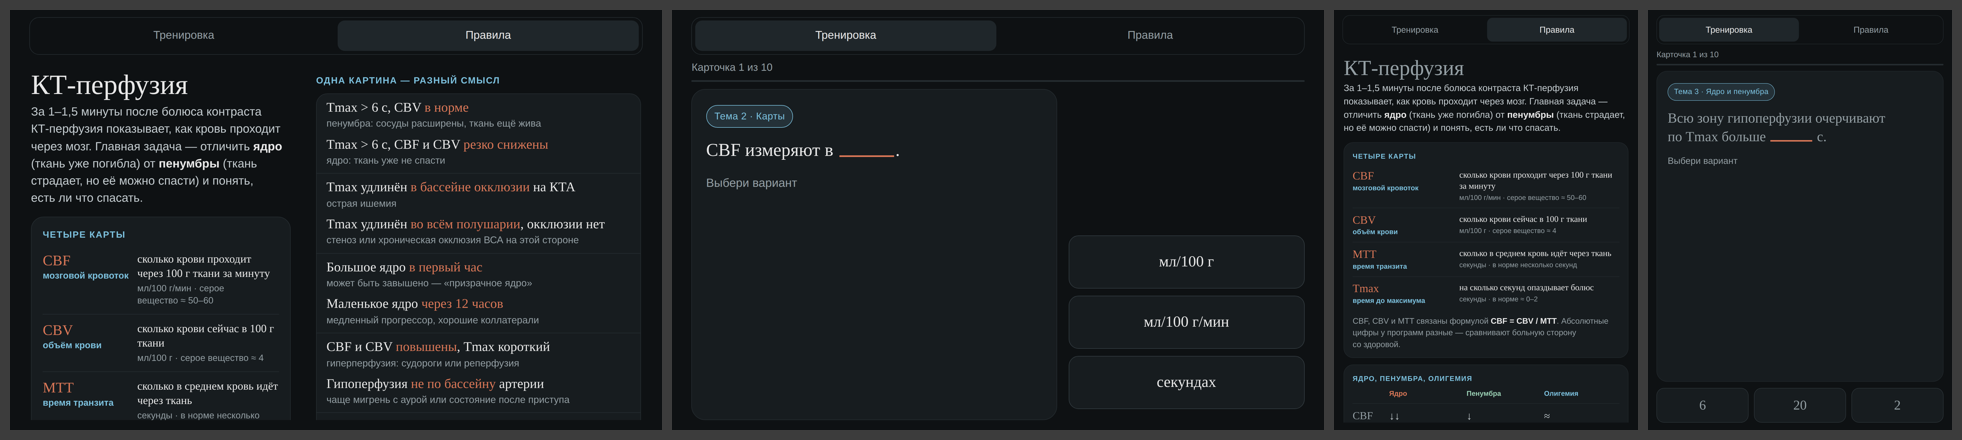
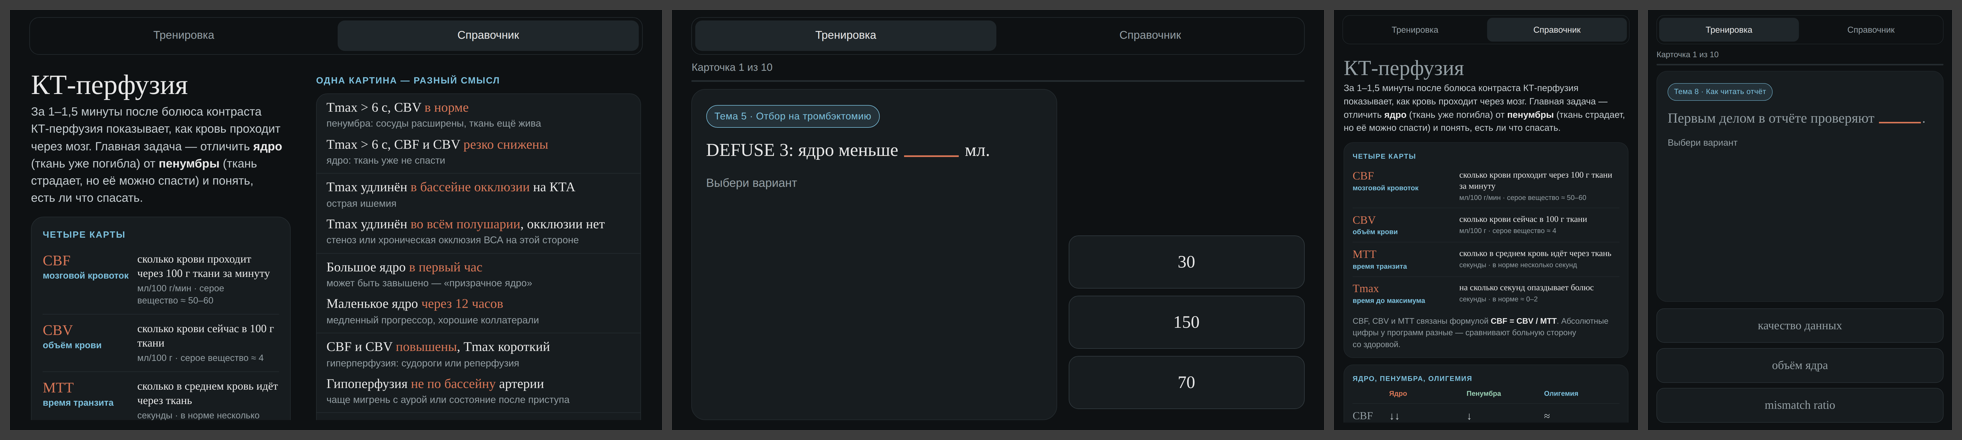
med-pso: CT perfusion second tab named «Справочник» like the others; Pages home-screen tags
The rename is done in ctp/build.py, the shared template ctp/template.html
stays as is. app/index.html (local and GitHub Pages copy) gets an
apple-touch-icon and the «ПСО» title for the home screen.

Claude-Session: https://claude.ai/code/session_01D6usDifFMPHewh45USjthA

diff --git a/med-pso/app/index.html b/med-pso/app/index.html
@@ -1,4 +1,4 @@
-<!doctype html><html><head><meta charset=utf8><meta name=viewport content="width=device-width,initial-scale=1,viewport-fit=cover"><style>:root{color-scheme:light;box-sizing:border-box;padding-top:env(safe-area-inset-top,0px);padding-bottom:env(safe-area-inset-bottom,0px)}html{scroll-padding-top:env(safe-area-inset-top,0px)}body{margin:0;padding:0;font:14px -apple-system,BlinkMacSystemFont,sans-serif;background:#faf9f5;color:#141413}img{max-width:100%}[hidden]:not([hidden=until-found i]){display:none!important}</style></head><body>
+<!doctype html><html><head><meta charset=utf8><meta name=viewport content="width=device-width,initial-scale=1,viewport-fit=cover"><style>:root{color-scheme:light;box-sizing:border-box;padding-top:env(safe-area-inset-top,0px);padding-bottom:env(safe-area-inset-bottom,0px)}html{scroll-padding-top:env(safe-area-inset-top,0px)}body{margin:0;padding:0;font:14px -apple-system,BlinkMacSystemFont,sans-serif;background:#faf9f5;color:#141413}img{max-width:100%}[hidden]:not([hidden=until-found i]){display:none!important}</style><link rel="apple-touch-icon" href="apps/icons/pso-180.png"><meta name="apple-mobile-web-app-capable" content="yes"><meta name="apple-mobile-web-app-status-bar-style" content="black"><meta name="apple-mobile-web-app-title" content="ПСО"><meta name="theme-color" content="#0e1113"></head><body>
 <title>Медицина ПСО</title>
 <style>
   /* Оболочка как у «Английского B2»: главная со сводкой и плитками модулей, модуль открывается поверх неё
@@ -184,7 +184,7 @@
 
 <script>
 // ——— Каталог: модули по группам. ids — карточки (для счётчиков), ls — ключ локального прогресса модуля
-const CAT = {"groups":[["reperf","Реперфузия и визуализация"],["prev","Ранняя вторичная профилактика"]],"apps":[{"key":"arterii","title":"Артерии мозга","label":"Артерии","desc":"сегменты, бассейны, синдромы, мишени для ВСТЭ; схемы сосудов","group":"reperf","kind":"gen","ls":"art:state","ids":["w-parts","w-acom","w-pcom","w-complete","w-fetal","w-fetal-occ","w-a1hypo","w-lepto","w-fig-acom","w-fig-pcom","w-tap-p1","i-c4","i-oph","i-c7","i-neck","i-T","i-tandem","i-pseudo","i-amaurosis","i-acha","i-eye-hemi","i-fig-c4","i-tap-c7","m-m1end","m-lsa","m-lsa-end","m-m2","m-dom","m-sup","m-inf","m-dot","m-fig-m2","m-fig-lsa","m-tap-m3","a-leg","a-heub","a-abulia","p-macula","p-alexia","p-p1","p-percheron","p-cortical","p-memory","a-fig-a2","p-fig-p2","a-tap-a1","v-c6","v-v3","v-junction","v-wall","v-aica","v-top","v-pinpoint","v-prodrome","v-III","v-hypo","v-fig-v4","v-fig-pica","v-tap-sca","s-gaze","s-aphasia","s-neglect","s-mca","s-lacune","s-hemianopia","s-lvo","s-neck","s-vertigo","s-fig-aca","s-fig-pca","s-tap-deep","k-arch","k-creat","k-40","k-hyper","k-aspects-ct","k-aspects-10","k-aspects-m1","k-aspects-vbb","k-pc","k-mip","k-collat","k-lams","k-fig-am2","k-fig-ai","k-tap-l","r-6h","r-mild","r-ivt","r-wait","r-defuse","r-ba","r-ba-aha","r-pca","r-m2","r-tandem","r-anticoag","r-fig-m1","r-fig-ba","r-fig-m4"],"topics":8,"extra":"","kw":"Виллизиев круг Внутренняя сонная артерия Средняя мозговая артерия ПМА и ЗМА Вертебробазилярная система Бассейны и синдромы КТА: где окклюзия Решение о ВСТЭ"},{"key":"perfuziya","title":"КТ-перфузия","label":"Перфузия","desc":"карты, ядро и пенумбра, коллатерали, отбор на ТЭ и ТЛТ","group":"reperf","kind":"gen","ls":"ctp:state","ids":["p1-bolus","p1-rate","p1-time","p1-aif","p1-vof","p1-formula","p1-trunc","p2-cbf-units","p2-cbv-units","p2-norm","p2-white","p2-tmax","p2-relative","p2-mtt","p3-core","p3-tmax","p3-cbv-pen","p3-cbv-core","p3-pen-vol","p3-ratio","p3-olig","p3-rescue","p4-hir","p4-high","p4-growth","p4-slow","p4-window","p4-tmax10","p5-core","p5-ratio","p5-pen","p5-window","p5-dawn","p5-dawn80","p5-large","p5-early","p6-window","p6-wake","p6-ratio","p6-core","p6-risk","p6-trace","p6-timeless","p6-guideline","p7-output","p7-ica","p7-seizure","p7-migraine","p7-lacune","p7-ghost","p7-late","p7-old","p7-motion","p8-first","p8-aif","p8-return","p8-cta","p8-mismatch","p8-aspects","p8-doctor"],"topics":8,"extra":"","kw":"Как это работает Карты Ядро и пенумбра Коллатерали Отбор на тромбэктомию Тромболизис в позднем окне Ловушки Как читать отчёт"},{"key":"poak","title":"Ранняя антикоагуляция","label":"ПОАК","desc":"ПОАК при ФП: сроки по ELAN и CATALYST, дозы, переходы, антидоты","group":"prev","kind":"gen","ls":"oac:state","ids":["e-elan-early","e-elan-major","e-elan-is","e-elan-sich","e-optimas","e-timing","e-catalyst","e-catalyst-sich","e-major","s-basis","s-minor","s-branch","s-deep","s-mca","s-two-cort","s-post","s-shower","s-two-small","s-after-evt","t-tia","t-minor","t-moderate","t-major","t-ivt","t-asa","t-asa-stop","t-heparin","t-proph","t-kr-minor","t-kr-severe","t-aha","t-kr25","x-hi","x-ph","x-ph-outcome","x-reperf","x-ckd","x-volume","x-break","x-combo","x-laao","d-full","d-api","d-api-crcl","d-riva","d-riva-food","d-dabi-80","d-dabi-30","d-edox","d-cg","d-dialysis","p-crush","p-dabi-caps","p-riva-tube","p-cbz","p-azole","p-verap","p-ppi","w-mech","w-ms","w-aps","w-lvt","w-start","w-inr","w-ttr","w-bridge","w-mitral","sw-asa","sw-lmwh","sw-ufh","sw-w-lt2","sw-w-2","sw-w-3","sw-to-w","sw-inr-time","sw-doac","a-ida","a-ida-dose","a-ida-restart","a-xa","a-vka","a-ufh","a-enox","a-charcoal","a-dialysis","l-warf","l-hep","l-48","l-dabi-12","l-dabi-tt","l-xa-12","l-xa-anti","l-evt"],"topics":10,"extra":"","kw":"Доказательства Размер инфаркта Сроки старта Особые ситуации Дозы ПОАК Зонд и взаимодействия Варфарин Переходы Антидоты Тромболизис на антикоагулянте"},{"key":"vits","title":"ВИТС после инсульта","label":"ВИТС","desc":"аторвастатин и розувастатин, цели ХС ЛНП, контроль, безопасность","group":"prev","kind":"gen","ls":"vits:state","ids":["w-most","w-target","w-50","w-extreme","w-tst","w-sparcl","w-ctt","w-icas","w-carotid","w-tg","d-atorva","d-rosu","d-mod-a","d-mod-r","d-effect","d-ezet","d-time","d-max","d-rosu-kk","d-atorva-kk","a-75new","a-75cont","a-75line","a-ctt","a-staree","a-staree-dfs","a-rosu70","a-ck70","s-kk30","s-asian","s-40list","s-cyclo","s-fusid","s-warf","s-preg","s-contra","s-amio","s-liver","t-48","t-lipids","t-nowait","t-inspires","t-inspires-fn","t-assort","t-ivt","t-inspires-reg","t-crush","n-blanco","n-end","n-lee","n-lee-red","n-life","n-disp","n-fail","m-kr","m-year","m-liver","m-168","m-ck","m-atorva-lft","m-early","m-visits","m-hba1c","e-ez","e-pcsk9","e-4","e-intol","e-tstez","e-racing","e-calc","e-calc2","e-calc3","r-plan","r-target","r-fourier","r-intol","r-alt3","r-alt2","r-restart","r-cyclo","r-inspires","h-ck4","h-ck10","h-ck-sym","h-ck-nosym","h-ctt","h-samson","h-ctt26","h-trans","h-intol","b-sparcl","b-tst-ich","b-bp","b-judge","b-hem","b-dm","b-lodestar","b-ht"],"topics":11,"extra":"","kw":"Кому ВИТС и цель Препараты и дозы Возраст Особые пациенты Когда начинать Не прерывать Сроки контроля Эскалация Снижение дозы Мышцы и печень Кровоизлияния и диабет"},{"key":"daat","title":"Антиагреганты при ИИ и ТИА","label":"ДААТ","desc":"ДААТ и монотерапия, нагрузка, сроки, перевод, с антикоагулянтами","group":"prev","kind":"gen","ls":"dapt:state","ids":["k-all","k-minor","k-abcd","k-algo","k-tia-af","k-lowtia","k-image","k-eso26","c-dur","c-start","c-label","c-chance","c-point","c-pool","c-insp","c-insp-bleed","c-insp-week","t-dur","t-who","t-sten","t-load","t-ich","t-thales","t-contra","t-label","t-asa","t-ch2","l-eso","l-already","l-75","l-600","l-rct","l-asa-thales","l-cyp","s-24","s-48","s-tic24","s-ivt","s-evt","s-ht","s-week","s-roth","d-22","d-31","d-which","d-90","d-point","d-sps3","d-taper","d-icas","d-ch2","i-prior","i-artis","i-kom","i-east","i-tapis","i-aramis","i-mrclean","i-tiro","v-sev","v-ist","v-atamis","v-dvt","v-cm","v-ac","v-ng","v-45","o-before","o-comb","o-atis","o-stent","o-lmwh","o-compass","o-compass-no","o-valve","x-icas","x-samm","x-diss","x-fail","x-triple","x-indo","x-moya","x-test","x-ppi","f-severe","f-end","f-noload","f-poac","f-ivt","f-tube","f-wait","f-forever"],"topics":11,"extra":"","kw":"Кому ДААТ, кому одна таблетка Клопидогрел + АСК Тикагрелор + АСК Нагрузочные дозы Сроки старта Длительность и перевод Тромболизис и тромбэктомия Лёгкие и тяжёлые С антикоагулянтами Особые случаи Частые ошибки"},{"key":"trombotsity","title":"Антитромботики при тромбоцитопении","label":"Тромбоциты","desc":"НМГ, ПОАК, АСК, клопидогрел при < 20, 20–50, > 50; ГИТ, ИТП","group":"prev","kind":"gen","ls":"thrombo:state","ids":["l-eha3","l-eha4","l-ehra","l-safe","l-rct","l-stable","l-recheck","l-who","k-thr","k-oak","k-tlt","k-04","k-50","k-improve","k-ipc","k-24","k-evt","f-pseudo","f-lmwh","f-hit","f-three","f-nsaid","f-ppi","f-panto","f-bleed","p-70","p-35","p-apix","p-20","p-ipc72","p-stock","p-cirr","p-ufh","t-60","t-35","t-35hr","t-14","t-20","t-resume","t-filter","t-trove","t-hr","d-60","d-ehra","d-eha","d-15","d-fall","d-vhr","d-iyen","d-droz","d-hit","a-60","a-35","a-20","a-resume","a-esc","a-acs","a-prim","a-dose","c-80","c-60b","c-40","c-icas40","c-icas60","c-esc","c-tic","c-iv","c-mcc","c-comb","c-coh","c-riva","r-100","r-wait","r-stop","r-cucc","r-trisp","r-xu","r-evt60","r-evt20","r-tor","h-what","h-4ts","h-low","h-int","h-time","h-fall","h-warf","h-trans","h-dur","h-apix","h-us","s-itp25","s-itp40","s-itpac","s-itpthr","s-cao","s-aabb","s-patch","s-ich","s-lp","s-valve","e-wait","e-70","e-poac","e-hit","e-dapt","e-tic","e-noprop","e-hittr","e-pseudo"],"topics":12,"extra":"","kw":"Три уровня тромбоцитов Что есть в КР по ИИ 2024 Сначала проверить НМГ: профилактика ТГВ НМГ: лечение ВТЭ ПОАК и ФП АСК Клопидогрел и ДААТ ТЛТ и тромбэктомия ГИТ ИТП, цирроз, трансфузии Частые ошибки"},{"key":"att","title":"АТТ после инсульта","label":"АТТ","desc":"ДАТТ, ФП, комбинации, тромб в ЛП, АФС, стенты, ООО, ТГВ; случаи и тест","group":"prev","kind":"att","ls":"stroke-att.progress.v1","ids":["d1","d2","d3","d4","d5","d6","d8","d7","f1","f2","f3","f10","f11","f4","f5","f6","f12","f7","f8","f9","c1","c2","c3","c4","c5","c6","l1","l2","l3","l4","l5","a1","a2","a3","a4","a5","s1","s2","s3","s4","s5","s6","s7","p1","p2","p3","p4","p5","p6","p7","v1","v2","v3","v4","v5","v6","v7"],"topics":8,"extra":"40 случаев · тест 26","kw":"ДААТ ФП: ОАК и сроки Комбинации Тромб в ЛП АФС Стентирование ООО ТГВ голени"}],"built":"2026-10-05"};
+const CAT = {"groups":[["reperf","Реперфузия и визуализация"],["prev","Ранняя вторичная профилактика"]],"apps":[{"key":"arterii","title":"Артерии мозга","label":"Артерии","desc":"сегменты, бассейны, синдромы, мишени для ВСТЭ; схемы сосудов","group":"reperf","kind":"gen","ls":"art:state","ids":["w-parts","w-acom","w-pcom","w-complete","w-fetal","w-fetal-occ","w-a1hypo","w-lepto","w-fig-acom","w-fig-pcom","w-tap-p1","i-c4","i-oph","i-c7","i-neck","i-T","i-tandem","i-pseudo","i-amaurosis","i-acha","i-eye-hemi","i-fig-c4","i-tap-c7","m-m1end","m-lsa","m-lsa-end","m-m2","m-dom","m-sup","m-inf","m-dot","m-fig-m2","m-fig-lsa","m-tap-m3","a-leg","a-heub","a-abulia","p-macula","p-alexia","p-p1","p-percheron","p-cortical","p-memory","a-fig-a2","p-fig-p2","a-tap-a1","v-c6","v-v3","v-junction","v-wall","v-aica","v-top","v-pinpoint","v-prodrome","v-III","v-hypo","v-fig-v4","v-fig-pica","v-tap-sca","s-gaze","s-aphasia","s-neglect","s-mca","s-lacune","s-hemianopia","s-lvo","s-neck","s-vertigo","s-fig-aca","s-fig-pca","s-tap-deep","k-arch","k-creat","k-40","k-hyper","k-aspects-ct","k-aspects-10","k-aspects-m1","k-aspects-vbb","k-pc","k-mip","k-collat","k-lams","k-fig-am2","k-fig-ai","k-tap-l","r-6h","r-mild","r-ivt","r-wait","r-defuse","r-ba","r-ba-aha","r-pca","r-m2","r-tandem","r-anticoag","r-fig-m1","r-fig-ba","r-fig-m4"],"topics":8,"extra":"","kw":"Виллизиев круг Внутренняя сонная артерия Средняя мозговая артерия ПМА и ЗМА Вертебробазилярная система Бассейны и синдромы КТА: где окклюзия Решение о ВСТЭ"},{"key":"perfuziya","title":"КТ-перфузия","label":"Перфузия","desc":"карты, ядро и пенумбра, коллатерали, отбор на ТЭ и ТЛТ","group":"reperf","kind":"gen","ls":"ctp:state","ids":["p1-bolus","p1-rate","p1-time","p1-aif","p1-vof","p1-formula","p1-trunc","p2-cbf-units","p2-cbv-units","p2-norm","p2-white","p2-tmax","p2-relative","p2-mtt","p3-core","p3-tmax","p3-cbv-pen","p3-cbv-core","p3-pen-vol","p3-ratio","p3-olig","p3-rescue","p4-hir","p4-high","p4-growth","p4-slow","p4-window","p4-tmax10","p5-core","p5-ratio","p5-pen","p5-window","p5-dawn","p5-dawn80","p5-large","p5-early","p6-window","p6-wake","p6-ratio","p6-core","p6-risk","p6-trace","p6-timeless","p6-guideline","p7-output","p7-ica","p7-seizure","p7-migraine","p7-lacune","p7-ghost","p7-late","p7-old","p7-motion","p8-first","p8-aif","p8-return","p8-cta","p8-mismatch","p8-aspects","p8-doctor"],"topics":8,"extra":"","kw":"Как это работает Карты Ядро и пенумбра Коллатерали Отбор на тромбэктомию Тромболизис в позднем окне Ловушки Как читать отчёт"},{"key":"poak","title":"Ранняя антикоагуляция","label":"ПОАК","desc":"ПОАК при ФП: сроки по ELAN и CATALYST, дозы, переходы, антидоты","group":"prev","kind":"gen","ls":"oac:state","ids":["e-elan-early","e-elan-major","e-elan-is","e-elan-sich","e-optimas","e-timing","e-catalyst","e-catalyst-sich","e-major","s-basis","s-minor","s-branch","s-deep","s-mca","s-two-cort","s-post","s-shower","s-two-small","s-after-evt","t-tia","t-minor","t-moderate","t-major","t-ivt","t-asa","t-asa-stop","t-heparin","t-proph","t-kr-minor","t-kr-severe","t-aha","t-kr25","x-hi","x-ph","x-ph-outcome","x-reperf","x-ckd","x-volume","x-break","x-combo","x-laao","d-full","d-api","d-api-crcl","d-riva","d-riva-food","d-dabi-80","d-dabi-30","d-edox","d-cg","d-dialysis","p-crush","p-dabi-caps","p-riva-tube","p-cbz","p-azole","p-verap","p-ppi","w-mech","w-ms","w-aps","w-lvt","w-start","w-inr","w-ttr","w-bridge","w-mitral","sw-asa","sw-lmwh","sw-ufh","sw-w-lt2","sw-w-2","sw-w-3","sw-to-w","sw-inr-time","sw-doac","a-ida","a-ida-dose","a-ida-restart","a-xa","a-vka","a-ufh","a-enox","a-charcoal","a-dialysis","l-warf","l-hep","l-48","l-dabi-12","l-dabi-tt","l-xa-12","l-xa-anti","l-evt"],"topics":10,"extra":"","kw":"Доказательства Размер инфаркта Сроки старта Особые ситуации Дозы ПОАК Зонд и взаимодействия Варфарин Переходы Антидоты Тромболизис на антикоагулянте"},{"key":"vits","title":"ВИТС после инсульта","label":"ВИТС","desc":"аторвастатин и розувастатин, цели ХС ЛНП, контроль, безопасность","group":"prev","kind":"gen","ls":"vits:state","ids":["w-most","w-target","w-50","w-extreme","w-tst","w-sparcl","w-ctt","w-icas","w-carotid","w-tg","d-atorva","d-rosu","d-mod-a","d-mod-r","d-effect","d-ezet","d-time","d-max","d-rosu-kk","d-atorva-kk","a-75new","a-75cont","a-75line","a-ctt","a-staree","a-staree-dfs","a-rosu70","a-ck70","s-kk30","s-asian","s-40list","s-cyclo","s-fusid","s-warf","s-preg","s-contra","s-amio","s-liver","t-48","t-lipids","t-nowait","t-inspires","t-inspires-fn","t-assort","t-ivt","t-inspires-reg","t-crush","n-blanco","n-end","n-lee","n-lee-red","n-life","n-disp","n-fail","m-kr","m-year","m-liver","m-168","m-ck","m-atorva-lft","m-early","m-visits","m-hba1c","e-ez","e-pcsk9","e-4","e-intol","e-tstez","e-racing","e-calc","e-calc2","e-calc3","r-plan","r-target","r-fourier","r-intol","r-alt3","r-alt2","r-restart","r-cyclo","r-inspires","h-ck4","h-ck10","h-ck-sym","h-ck-nosym","h-ctt","h-samson","h-ctt26","h-trans","h-intol","b-sparcl","b-tst-ich","b-bp","b-judge","b-hem","b-dm","b-lodestar","b-ht"],"topics":11,"extra":"","kw":"Кому ВИТС и цель Препараты и дозы Возраст Особые пациенты Когда начинать Не прерывать Сроки контроля Эскалация Снижение дозы Мышцы и печень Кровоизлияния и диабет"},{"key":"daat","title":"Антиагреганты при ИИ и ТИА","label":"ДААТ","desc":"ДААТ и монотерапия, нагрузка, сроки, перевод, с антикоагулянтами","group":"prev","kind":"gen","ls":"dapt:state","ids":["k-all","k-minor","k-abcd","k-algo","k-tia-af","k-lowtia","k-image","k-eso26","c-dur","c-start","c-label","c-chance","c-point","c-pool","c-insp","c-insp-bleed","c-insp-week","t-dur","t-who","t-sten","t-load","t-ich","t-thales","t-contra","t-label","t-asa","t-ch2","l-eso","l-already","l-75","l-600","l-rct","l-asa-thales","l-cyp","s-24","s-48","s-tic24","s-ivt","s-evt","s-ht","s-week","s-roth","d-22","d-31","d-which","d-90","d-point","d-sps3","d-taper","d-icas","d-ch2","i-prior","i-artis","i-kom","i-east","i-tapis","i-aramis","i-mrclean","i-tiro","v-sev","v-ist","v-atamis","v-dvt","v-cm","v-ac","v-ng","v-45","o-before","o-comb","o-atis","o-stent","o-lmwh","o-compass","o-compass-no","o-valve","x-icas","x-samm","x-diss","x-fail","x-triple","x-indo","x-moya","x-test","x-ppi","f-severe","f-end","f-noload","f-poac","f-ivt","f-tube","f-wait","f-forever"],"topics":11,"extra":"","kw":"Кому ДААТ, кому одна таблетка Клопидогрел + АСК Тикагрелор + АСК Нагрузочные дозы Сроки старта Длительность и перевод Тромболизис и тромбэктомия Лёгкие и тяжёлые С антикоагулянтами Особые случаи Частые ошибки"},{"key":"trombotsity","title":"Антитромботики при тромбоцитопении","label":"Тромбоциты","desc":"НМГ, ПОАК, АСК, клопидогрел при < 20, 20–50, > 50; ГИТ, ИТП","group":"prev","kind":"gen","ls":"thrombo:state","ids":["l-eha3","l-eha4","l-ehra","l-safe","l-rct","l-stable","l-recheck","l-who","k-thr","k-oak","k-tlt","k-04","k-50","k-improve","k-ipc","k-24","k-evt","f-pseudo","f-lmwh","f-hit","f-three","f-nsaid","f-ppi","f-panto","f-bleed","p-70","p-35","p-apix","p-20","p-ipc72","p-stock","p-cirr","p-ufh","t-60","t-35","t-35hr","t-14","t-20","t-resume","t-filter","t-trove","t-hr","d-60","d-ehra","d-eha","d-15","d-fall","d-vhr","d-iyen","d-droz","d-hit","a-60","a-35","a-20","a-resume","a-esc","a-acs","a-prim","a-dose","c-80","c-60b","c-40","c-icas40","c-icas60","c-esc","c-tic","c-iv","c-mcc","c-comb","c-coh","c-riva","r-100","r-wait","r-stop","r-cucc","r-trisp","r-xu","r-evt60","r-evt20","r-tor","h-what","h-4ts","h-low","h-int","h-time","h-fall","h-warf","h-trans","h-dur","h-apix","h-us","s-itp25","s-itp40","s-itpac","s-itpthr","s-cao","s-aabb","s-patch","s-ich","s-lp","s-valve","e-wait","e-70","e-poac","e-hit","e-dapt","e-tic","e-noprop","e-hittr","e-pseudo"],"topics":12,"extra":"","kw":"Три уровня тромбоцитов Что есть в КР по ИИ 2024 Сначала проверить НМГ: профилактика ТГВ НМГ: лечение ВТЭ ПОАК и ФП АСК Клопидогрел и ДААТ ТЛТ и тромбэктомия ГИТ ИТП, цирроз, трансфузии Частые ошибки"},{"key":"att","title":"АТТ после инсульта","label":"АТТ","desc":"ДАТТ, ФП, комбинации, тромб в ЛП, АФС, стенты, ООО, ТГВ; случаи и тест","group":"prev","kind":"att","ls":"stroke-att.progress.v1","ids":["d1","d2","d3","d4","d5","d6","d8","d7","f1","f2","f3","f10","f11","f4","f5","f6","f12","f7","f8","f9","c1","c2","c3","c4","c5","c6","l1","l2","l3","l4","l5","a1","a2","a3","a4","a5","s1","s2","s3","s4","s5","s6","s7","p1","p2","p3","p4","p5","p6","p7","v1","v2","v3","v4","v5","v6","v7"],"topics":8,"extra":"40 случаев · тест 26","kw":"ДААТ ФП: ОАК и сроки Комбинации Тромб в ЛП АФС Стентирование ООО ТГВ голени"}],"built":"2026-10-06"};
 
 const APPS = {}; CAT.apps.forEach(a => { APPS[a.key] = a; });
 const $ = id => document.getElementById(id);

diff --git a/med-pso/app/shell.html b/med-pso/app/shell.html
@@ -183,7 +183,7 @@
 
 <script>
 // ——— Каталог: модули по группам. ids — карточки (для счётчиков), ls — ключ локального прогресса модуля
-const CAT = {"groups":[["reperf","Реперфузия и визуализация"],["prev","Ранняя вторичная профилактика"]],"apps":[{"key":"arterii","title":"Артерии мозга","label":"Артерии","desc":"сегменты, бассейны, синдромы, мишени для ВСТЭ; схемы сосудов","group":"reperf","kind":"gen","ls":"art:state","ids":["w-parts","w-acom","w-pcom","w-complete","w-fetal","w-fetal-occ","w-a1hypo","w-lepto","w-fig-acom","w-fig-pcom","w-tap-p1","i-c4","i-oph","i-c7","i-neck","i-T","i-tandem","i-pseudo","i-amaurosis","i-acha","i-eye-hemi","i-fig-c4","i-tap-c7","m-m1end","m-lsa","m-lsa-end","m-m2","m-dom","m-sup","m-inf","m-dot","m-fig-m2","m-fig-lsa","m-tap-m3","a-leg","a-heub","a-abulia","p-macula","p-alexia","p-p1","p-percheron","p-cortical","p-memory","a-fig-a2","p-fig-p2","a-tap-a1","v-c6","v-v3","v-junction","v-wall","v-aica","v-top","v-pinpoint","v-prodrome","v-III","v-hypo","v-fig-v4","v-fig-pica","v-tap-sca","s-gaze","s-aphasia","s-neglect","s-mca","s-lacune","s-hemianopia","s-lvo","s-neck","s-vertigo","s-fig-aca","s-fig-pca","s-tap-deep","k-arch","k-creat","k-40","k-hyper","k-aspects-ct","k-aspects-10","k-aspects-m1","k-aspects-vbb","k-pc","k-mip","k-collat","k-lams","k-fig-am2","k-fig-ai","k-tap-l","r-6h","r-mild","r-ivt","r-wait","r-defuse","r-ba","r-ba-aha","r-pca","r-m2","r-tandem","r-anticoag","r-fig-m1","r-fig-ba","r-fig-m4"],"topics":8,"extra":"","kw":"Виллизиев круг Внутренняя сонная артерия Средняя мозговая артерия ПМА и ЗМА Вертебробазилярная система Бассейны и синдромы КТА: где окклюзия Решение о ВСТЭ"},{"key":"perfuziya","title":"КТ-перфузия","label":"Перфузия","desc":"карты, ядро и пенумбра, коллатерали, отбор на ТЭ и ТЛТ","group":"reperf","kind":"gen","ls":"ctp:state","ids":["p1-bolus","p1-rate","p1-time","p1-aif","p1-vof","p1-formula","p1-trunc","p2-cbf-units","p2-cbv-units","p2-norm","p2-white","p2-tmax","p2-relative","p2-mtt","p3-core","p3-tmax","p3-cbv-pen","p3-cbv-core","p3-pen-vol","p3-ratio","p3-olig","p3-rescue","p4-hir","p4-high","p4-growth","p4-slow","p4-window","p4-tmax10","p5-core","p5-ratio","p5-pen","p5-window","p5-dawn","p5-dawn80","p5-large","p5-early","p6-window","p6-wake","p6-ratio","p6-core","p6-risk","p6-trace","p6-timeless","p6-guideline","p7-output","p7-ica","p7-seizure","p7-migraine","p7-lacune","p7-ghost","p7-late","p7-old","p7-motion","p8-first","p8-aif","p8-return","p8-cta","p8-mismatch","p8-aspects","p8-doctor"],"topics":8,"extra":"","kw":"Как это работает Карты Ядро и пенумбра Коллатерали Отбор на тромбэктомию Тромболизис в позднем окне Ловушки Как читать отчёт"},{"key":"poak","title":"Ранняя антикоагуляция","label":"ПОАК","desc":"ПОАК при ФП: сроки по ELAN и CATALYST, дозы, переходы, антидоты","group":"prev","kind":"gen","ls":"oac:state","ids":["e-elan-early","e-elan-major","e-elan-is","e-elan-sich","e-optimas","e-timing","e-catalyst","e-catalyst-sich","e-major","s-basis","s-minor","s-branch","s-deep","s-mca","s-two-cort","s-post","s-shower","s-two-small","s-after-evt","t-tia","t-minor","t-moderate","t-major","t-ivt","t-asa","t-asa-stop","t-heparin","t-proph","t-kr-minor","t-kr-severe","t-aha","t-kr25","x-hi","x-ph","x-ph-outcome","x-reperf","x-ckd","x-volume","x-break","x-combo","x-laao","d-full","d-api","d-api-crcl","d-riva","d-riva-food","d-dabi-80","d-dabi-30","d-edox","d-cg","d-dialysis","p-crush","p-dabi-caps","p-riva-tube","p-cbz","p-azole","p-verap","p-ppi","w-mech","w-ms","w-aps","w-lvt","w-start","w-inr","w-ttr","w-bridge","w-mitral","sw-asa","sw-lmwh","sw-ufh","sw-w-lt2","sw-w-2","sw-w-3","sw-to-w","sw-inr-time","sw-doac","a-ida","a-ida-dose","a-ida-restart","a-xa","a-vka","a-ufh","a-enox","a-charcoal","a-dialysis","l-warf","l-hep","l-48","l-dabi-12","l-dabi-tt","l-xa-12","l-xa-anti","l-evt"],"topics":10,"extra":"","kw":"Доказательства Размер инфаркта Сроки старта Особые ситуации Дозы ПОАК Зонд и взаимодействия Варфарин Переходы Антидоты Тромболизис на антикоагулянте"},{"key":"vits","title":"ВИТС после инсульта","label":"ВИТС","desc":"аторвастатин и розувастатин, цели ХС ЛНП, контроль, безопасность","group":"prev","kind":"gen","ls":"vits:state","ids":["w-most","w-target","w-50","w-extreme","w-tst","w-sparcl","w-ctt","w-icas","w-carotid","w-tg","d-atorva","d-rosu","d-mod-a","d-mod-r","d-effect","d-ezet","d-time","d-max","d-rosu-kk","d-atorva-kk","a-75new","a-75cont","a-75line","a-ctt","a-staree","a-staree-dfs","a-rosu70","a-ck70","s-kk30","s-asian","s-40list","s-cyclo","s-fusid","s-warf","s-preg","s-contra","s-amio","s-liver","t-48","t-lipids","t-nowait","t-inspires","t-inspires-fn","t-assort","t-ivt","t-inspires-reg","t-crush","n-blanco","n-end","n-lee","n-lee-red","n-life","n-disp","n-fail","m-kr","m-year","m-liver","m-168","m-ck","m-atorva-lft","m-early","m-visits","m-hba1c","e-ez","e-pcsk9","e-4","e-intol","e-tstez","e-racing","e-calc","e-calc2","e-calc3","r-plan","r-target","r-fourier","r-intol","r-alt3","r-alt2","r-restart","r-cyclo","r-inspires","h-ck4","h-ck10","h-ck-sym","h-ck-nosym","h-ctt","h-samson","h-ctt26","h-trans","h-intol","b-sparcl","b-tst-ich","b-bp","b-judge","b-hem","b-dm","b-lodestar","b-ht"],"topics":11,"extra":"","kw":"Кому ВИТС и цель Препараты и дозы Возраст Особые пациенты Когда начинать Не прерывать Сроки контроля Эскалация Снижение дозы Мышцы и печень Кровоизлияния и диабет"},{"key":"daat","title":"Антиагреганты при ИИ и ТИА","label":"ДААТ","desc":"ДААТ и монотерапия, нагрузка, сроки, перевод, с антикоагулянтами","group":"prev","kind":"gen","ls":"dapt:state","ids":["k-all","k-minor","k-abcd","k-algo","k-tia-af","k-lowtia","k-image","k-eso26","c-dur","c-start","c-label","c-chance","c-point","c-pool","c-insp","c-insp-bleed","c-insp-week","t-dur","t-who","t-sten","t-load","t-ich","t-thales","t-contra","t-label","t-asa","t-ch2","l-eso","l-already","l-75","l-600","l-rct","l-asa-thales","l-cyp","s-24","s-48","s-tic24","s-ivt","s-evt","s-ht","s-week","s-roth","d-22","d-31","d-which","d-90","d-point","d-sps3","d-taper","d-icas","d-ch2","i-prior","i-artis","i-kom","i-east","i-tapis","i-aramis","i-mrclean","i-tiro","v-sev","v-ist","v-atamis","v-dvt","v-cm","v-ac","v-ng","v-45","o-before","o-comb","o-atis","o-stent","o-lmwh","o-compass","o-compass-no","o-valve","x-icas","x-samm","x-diss","x-fail","x-triple","x-indo","x-moya","x-test","x-ppi","f-severe","f-end","f-noload","f-poac","f-ivt","f-tube","f-wait","f-forever"],"topics":11,"extra":"","kw":"Кому ДААТ, кому одна таблетка Клопидогрел + АСК Тикагрелор + АСК Нагрузочные дозы Сроки старта Длительность и перевод Тромболизис и тромбэктомия Лёгкие и тяжёлые С антикоагулянтами Особые случаи Частые ошибки"},{"key":"trombotsity","title":"Антитромботики при тромбоцитопении","label":"Тромбоциты","desc":"НМГ, ПОАК, АСК, клопидогрел при < 20, 20–50, > 50; ГИТ, ИТП","group":"prev","kind":"gen","ls":"thrombo:state","ids":["l-eha3","l-eha4","l-ehra","l-safe","l-rct","l-stable","l-recheck","l-who","k-thr","k-oak","k-tlt","k-04","k-50","k-improve","k-ipc","k-24","k-evt","f-pseudo","f-lmwh","f-hit","f-three","f-nsaid","f-ppi","f-panto","f-bleed","p-70","p-35","p-apix","p-20","p-ipc72","p-stock","p-cirr","p-ufh","t-60","t-35","t-35hr","t-14","t-20","t-resume","t-filter","t-trove","t-hr","d-60","d-ehra","d-eha","d-15","d-fall","d-vhr","d-iyen","d-droz","d-hit","a-60","a-35","a-20","a-resume","a-esc","a-acs","a-prim","a-dose","c-80","c-60b","c-40","c-icas40","c-icas60","c-esc","c-tic","c-iv","c-mcc","c-comb","c-coh","c-riva","r-100","r-wait","r-stop","r-cucc","r-trisp","r-xu","r-evt60","r-evt20","r-tor","h-what","h-4ts","h-low","h-int","h-time","h-fall","h-warf","h-trans","h-dur","h-apix","h-us","s-itp25","s-itp40","s-itpac","s-itpthr","s-cao","s-aabb","s-patch","s-ich","s-lp","s-valve","e-wait","e-70","e-poac","e-hit","e-dapt","e-tic","e-noprop","e-hittr","e-pseudo"],"topics":12,"extra":"","kw":"Три уровня тромбоцитов Что есть в КР по ИИ 2024 Сначала проверить НМГ: профилактика ТГВ НМГ: лечение ВТЭ ПОАК и ФП АСК Клопидогрел и ДААТ ТЛТ и тромбэктомия ГИТ ИТП, цирроз, трансфузии Частые ошибки"},{"key":"att","title":"АТТ после инсульта","label":"АТТ","desc":"ДАТТ, ФП, комбинации, тромб в ЛП, АФС, стенты, ООО, ТГВ; случаи и тест","group":"prev","kind":"att","ls":"stroke-att.progress.v1","ids":["d1","d2","d3","d4","d5","d6","d8","d7","f1","f2","f3","f10","f11","f4","f5","f6","f12","f7","f8","f9","c1","c2","c3","c4","c5","c6","l1","l2","l3","l4","l5","a1","a2","a3","a4","a5","s1","s2","s3","s4","s5","s6","s7","p1","p2","p3","p4","p5","p6","p7","v1","v2","v3","v4","v5","v6","v7"],"topics":8,"extra":"40 случаев · тест 26","kw":"ДААТ ФП: ОАК и сроки Комбинации Тромб в ЛП АФС Стентирование ООО ТГВ голени"}],"built":"2026-10-05"};
+const CAT = {"groups":[["reperf","Реперфузия и визуализация"],["prev","Ранняя вторичная профилактика"]],"apps":[{"key":"arterii","title":"Артерии мозга","label":"Артерии","desc":"сегменты, бассейны, синдромы, мишени для ВСТЭ; схемы сосудов","group":"reperf","kind":"gen","ls":"art:state","ids":["w-parts","w-acom","w-pcom","w-complete","w-fetal","w-fetal-occ","w-a1hypo","w-lepto","w-fig-acom","w-fig-pcom","w-tap-p1","i-c4","i-oph","i-c7","i-neck","i-T","i-tandem","i-pseudo","i-amaurosis","i-acha","i-eye-hemi","i-fig-c4","i-tap-c7","m-m1end","m-lsa","m-lsa-end","m-m2","m-dom","m-sup","m-inf","m-dot","m-fig-m2","m-fig-lsa","m-tap-m3","a-leg","a-heub","a-abulia","p-macula","p-alexia","p-p1","p-percheron","p-cortical","p-memory","a-fig-a2","p-fig-p2","a-tap-a1","v-c6","v-v3","v-junction","v-wall","v-aica","v-top","v-pinpoint","v-prodrome","v-III","v-hypo","v-fig-v4","v-fig-pica","v-tap-sca","s-gaze","s-aphasia","s-neglect","s-mca","s-lacune","s-hemianopia","s-lvo","s-neck","s-vertigo","s-fig-aca","s-fig-pca","s-tap-deep","k-arch","k-creat","k-40","k-hyper","k-aspects-ct","k-aspects-10","k-aspects-m1","k-aspects-vbb","k-pc","k-mip","k-collat","k-lams","k-fig-am2","k-fig-ai","k-tap-l","r-6h","r-mild","r-ivt","r-wait","r-defuse","r-ba","r-ba-aha","r-pca","r-m2","r-tandem","r-anticoag","r-fig-m1","r-fig-ba","r-fig-m4"],"topics":8,"extra":"","kw":"Виллизиев круг Внутренняя сонная артерия Средняя мозговая артерия ПМА и ЗМА Вертебробазилярная система Бассейны и синдромы КТА: где окклюзия Решение о ВСТЭ"},{"key":"perfuziya","title":"КТ-перфузия","label":"Перфузия","desc":"карты, ядро и пенумбра, коллатерали, отбор на ТЭ и ТЛТ","group":"reperf","kind":"gen","ls":"ctp:state","ids":["p1-bolus","p1-rate","p1-time","p1-aif","p1-vof","p1-formula","p1-trunc","p2-cbf-units","p2-cbv-units","p2-norm","p2-white","p2-tmax","p2-relative","p2-mtt","p3-core","p3-tmax","p3-cbv-pen","p3-cbv-core","p3-pen-vol","p3-ratio","p3-olig","p3-rescue","p4-hir","p4-high","p4-growth","p4-slow","p4-window","p4-tmax10","p5-core","p5-ratio","p5-pen","p5-window","p5-dawn","p5-dawn80","p5-large","p5-early","p6-window","p6-wake","p6-ratio","p6-core","p6-risk","p6-trace","p6-timeless","p6-guideline","p7-output","p7-ica","p7-seizure","p7-migraine","p7-lacune","p7-ghost","p7-late","p7-old","p7-motion","p8-first","p8-aif","p8-return","p8-cta","p8-mismatch","p8-aspects","p8-doctor"],"topics":8,"extra":"","kw":"Как это работает Карты Ядро и пенумбра Коллатерали Отбор на тромбэктомию Тромболизис в позднем окне Ловушки Как читать отчёт"},{"key":"poak","title":"Ранняя антикоагуляция","label":"ПОАК","desc":"ПОАК при ФП: сроки по ELAN и CATALYST, дозы, переходы, антидоты","group":"prev","kind":"gen","ls":"oac:state","ids":["e-elan-early","e-elan-major","e-elan-is","e-elan-sich","e-optimas","e-timing","e-catalyst","e-catalyst-sich","e-major","s-basis","s-minor","s-branch","s-deep","s-mca","s-two-cort","s-post","s-shower","s-two-small","s-after-evt","t-tia","t-minor","t-moderate","t-major","t-ivt","t-asa","t-asa-stop","t-heparin","t-proph","t-kr-minor","t-kr-severe","t-aha","t-kr25","x-hi","x-ph","x-ph-outcome","x-reperf","x-ckd","x-volume","x-break","x-combo","x-laao","d-full","d-api","d-api-crcl","d-riva","d-riva-food","d-dabi-80","d-dabi-30","d-edox","d-cg","d-dialysis","p-crush","p-dabi-caps","p-riva-tube","p-cbz","p-azole","p-verap","p-ppi","w-mech","w-ms","w-aps","w-lvt","w-start","w-inr","w-ttr","w-bridge","w-mitral","sw-asa","sw-lmwh","sw-ufh","sw-w-lt2","sw-w-2","sw-w-3","sw-to-w","sw-inr-time","sw-doac","a-ida","a-ida-dose","a-ida-restart","a-xa","a-vka","a-ufh","a-enox","a-charcoal","a-dialysis","l-warf","l-hep","l-48","l-dabi-12","l-dabi-tt","l-xa-12","l-xa-anti","l-evt"],"topics":10,"extra":"","kw":"Доказательства Размер инфаркта Сроки старта Особые ситуации Дозы ПОАК Зонд и взаимодействия Варфарин Переходы Антидоты Тромболизис на антикоагулянте"},{"key":"vits","title":"ВИТС после инсульта","label":"ВИТС","desc":"аторвастатин и розувастатин, цели ХС ЛНП, контроль, безопасность","group":"prev","kind":"gen","ls":"vits:state","ids":["w-most","w-target","w-50","w-extreme","w-tst","w-sparcl","w-ctt","w-icas","w-carotid","w-tg","d-atorva","d-rosu","d-mod-a","d-mod-r","d-effect","d-ezet","d-time","d-max","d-rosu-kk","d-atorva-kk","a-75new","a-75cont","a-75line","a-ctt","a-staree","a-staree-dfs","a-rosu70","a-ck70","s-kk30","s-asian","s-40list","s-cyclo","s-fusid","s-warf","s-preg","s-contra","s-amio","s-liver","t-48","t-lipids","t-nowait","t-inspires","t-inspires-fn","t-assort","t-ivt","t-inspires-reg","t-crush","n-blanco","n-end","n-lee","n-lee-red","n-life","n-disp","n-fail","m-kr","m-year","m-liver","m-168","m-ck","m-atorva-lft","m-early","m-visits","m-hba1c","e-ez","e-pcsk9","e-4","e-intol","e-tstez","e-racing","e-calc","e-calc2","e-calc3","r-plan","r-target","r-fourier","r-intol","r-alt3","r-alt2","r-restart","r-cyclo","r-inspires","h-ck4","h-ck10","h-ck-sym","h-ck-nosym","h-ctt","h-samson","h-ctt26","h-trans","h-intol","b-sparcl","b-tst-ich","b-bp","b-judge","b-hem","b-dm","b-lodestar","b-ht"],"topics":11,"extra":"","kw":"Кому ВИТС и цель Препараты и дозы Возраст Особые пациенты Когда начинать Не прерывать Сроки контроля Эскалация Снижение дозы Мышцы и печень Кровоизлияния и диабет"},{"key":"daat","title":"Антиагреганты при ИИ и ТИА","label":"ДААТ","desc":"ДААТ и монотерапия, нагрузка, сроки, перевод, с антикоагулянтами","group":"prev","kind":"gen","ls":"dapt:state","ids":["k-all","k-minor","k-abcd","k-algo","k-tia-af","k-lowtia","k-image","k-eso26","c-dur","c-start","c-label","c-chance","c-point","c-pool","c-insp","c-insp-bleed","c-insp-week","t-dur","t-who","t-sten","t-load","t-ich","t-thales","t-contra","t-label","t-asa","t-ch2","l-eso","l-already","l-75","l-600","l-rct","l-asa-thales","l-cyp","s-24","s-48","s-tic24","s-ivt","s-evt","s-ht","s-week","s-roth","d-22","d-31","d-which","d-90","d-point","d-sps3","d-taper","d-icas","d-ch2","i-prior","i-artis","i-kom","i-east","i-tapis","i-aramis","i-mrclean","i-tiro","v-sev","v-ist","v-atamis","v-dvt","v-cm","v-ac","v-ng","v-45","o-before","o-comb","o-atis","o-stent","o-lmwh","o-compass","o-compass-no","o-valve","x-icas","x-samm","x-diss","x-fail","x-triple","x-indo","x-moya","x-test","x-ppi","f-severe","f-end","f-noload","f-poac","f-ivt","f-tube","f-wait","f-forever"],"topics":11,"extra":"","kw":"Кому ДААТ, кому одна таблетка Клопидогрел + АСК Тикагрелор + АСК Нагрузочные дозы Сроки старта Длительность и перевод Тромболизис и тромбэктомия Лёгкие и тяжёлые С антикоагулянтами Особые случаи Частые ошибки"},{"key":"trombotsity","title":"Антитромботики при тромбоцитопении","label":"Тромбоциты","desc":"НМГ, ПОАК, АСК, клопидогрел при < 20, 20–50, > 50; ГИТ, ИТП","group":"prev","kind":"gen","ls":"thrombo:state","ids":["l-eha3","l-eha4","l-ehra","l-safe","l-rct","l-stable","l-recheck","l-who","k-thr","k-oak","k-tlt","k-04","k-50","k-improve","k-ipc","k-24","k-evt","f-pseudo","f-lmwh","f-hit","f-three","f-nsaid","f-ppi","f-panto","f-bleed","p-70","p-35","p-apix","p-20","p-ipc72","p-stock","p-cirr","p-ufh","t-60","t-35","t-35hr","t-14","t-20","t-resume","t-filter","t-trove","t-hr","d-60","d-ehra","d-eha","d-15","d-fall","d-vhr","d-iyen","d-droz","d-hit","a-60","a-35","a-20","a-resume","a-esc","a-acs","a-prim","a-dose","c-80","c-60b","c-40","c-icas40","c-icas60","c-esc","c-tic","c-iv","c-mcc","c-comb","c-coh","c-riva","r-100","r-wait","r-stop","r-cucc","r-trisp","r-xu","r-evt60","r-evt20","r-tor","h-what","h-4ts","h-low","h-int","h-time","h-fall","h-warf","h-trans","h-dur","h-apix","h-us","s-itp25","s-itp40","s-itpac","s-itpthr","s-cao","s-aabb","s-patch","s-ich","s-lp","s-valve","e-wait","e-70","e-poac","e-hit","e-dapt","e-tic","e-noprop","e-hittr","e-pseudo"],"topics":12,"extra":"","kw":"Три уровня тромбоцитов Что есть в КР по ИИ 2024 Сначала проверить НМГ: профилактика ТГВ НМГ: лечение ВТЭ ПОАК и ФП АСК Клопидогрел и ДААТ ТЛТ и тромбэктомия ГИТ ИТП, цирроз, трансфузии Частые ошибки"},{"key":"att","title":"АТТ после инсульта","label":"АТТ","desc":"ДАТТ, ФП, комбинации, тромб в ЛП, АФС, стенты, ООО, ТГВ; случаи и тест","group":"prev","kind":"att","ls":"stroke-att.progress.v1","ids":["d1","d2","d3","d4","d5","d6","d8","d7","f1","f2","f3","f10","f11","f4","f5","f6","f12","f7","f8","f9","c1","c2","c3","c4","c5","c6","l1","l2","l3","l4","l5","a1","a2","a3","a4","a5","s1","s2","s3","s4","s5","s6","s7","p1","p2","p3","p4","p5","p6","p7","v1","v2","v3","v4","v5","v6","v7"],"topics":8,"extra":"40 случаев · тест 26","kw":"ДААТ ФП: ОАК и сроки Комбинации Тромб в ЛП АФС Стентирование ООО ТГВ голени"}],"built":"2026-10-06"};
 
 const APPS = {}; CAT.apps.forEach(a => { APPS[a.key] = a; });
 const $ = id => document.getElementById(id);

diff --git a/med-pso/app/apps/perfuziya.html b/med-pso/app/apps/perfuziya.html
@@ -284,7 +284,7 @@
   <div class="top">
     <div class="tabs" role="tablist" aria-label="Режим">
       <button class="tab" id="tabDrill" role="tab" type="button" aria-selected="false" aria-controls="drill">Тренировка</button>
-      <button class="tab" id="tabRule" role="tab" type="button" aria-selected="true" aria-controls="rule">Правила</button>
+      <button class="tab" id="tabRule" role="tab" type="button" aria-selected="true" aria-controls="rule">Справочник</button>
     </div>
   </div>
   <div class="meta" id="meta" hidden><span id="status">Карточка 1 из 10</span></div>
@@ -306,7 +306,7 @@
     </div>
     <div class="actions" id="actDone" hidden>
       <button class="big primary" id="more" type="button">Ещё 10 новых</button>
-      <button class="big" id="toRule" type="button">Правила</button>
+      <button class="big" id="toRule" type="button">Справочник</button>
     </div>
   </section>
 

diff --git a/med-pso/sources/ctp/index.html b/med-pso/sources/ctp/index.html
@@ -283,7 +283,7 @@
   <div class="top">
     <div class="tabs" role="tablist" aria-label="Режим">
       <button class="tab" id="tabDrill" role="tab" type="button" aria-selected="false" aria-controls="drill">Тренировка</button>
-      <button class="tab" id="tabRule" role="tab" type="button" aria-selected="true" aria-controls="rule">Правила</button>
+      <button class="tab" id="tabRule" role="tab" type="button" aria-selected="true" aria-controls="rule">Справочник</button>
     </div>
   </div>
   <div class="meta" id="meta" hidden><span id="status">Карточка 1 из 10</span></div>
@@ -305,7 +305,7 @@
     </div>
     <div class="actions" id="actDone" hidden>
       <button class="big primary" id="more" type="button">Ещё 10 новых</button>
-      <button class="big" id="toRule" type="button">Правила</button>
+      <button class="big" id="toRule" type="button">Справочник</button>
     </div>
   </section>
 

diff --git a/med-pso/sources/shell/build.py b/med-pso/sources/shell/build.py
@@ -109,7 +109,13 @@ catalog = {"groups": [[k, v] for k, v in CAT["groups"].items()], "apps": apps,
 shell = (HERE / "shell.html").read_text().replace("/*__CATALOG__*/", json.dumps(catalog, ensure_ascii=False, separators=(",", ":")))
 assert "/*__" not in shell
 (OUT / "shell.html").write_text(shell)
-(OUT / "index.html").write_text(SK_HEAD + "\n" + shell + "\n</body></html>\n")
+# index.html — для локального просмотра и GitHub Pages: плюс иконка и подпись «ПСО» для экрана «Домой»
+Image.open(HERE / "tile" / "icon-180.png").save(OUT / "apps" / "icons" / "pso-180.png", optimize=True)
+HOME = ('<link rel="apple-touch-icon" href="apps/icons/pso-180.png"><meta name="apple-mobile-web-app-capable" content="yes">'
+        '<meta name="apple-mobile-web-app-status-bar-style" content="black"><meta name="apple-mobile-web-app-title" content="ПСО">'
+        '<meta name="theme-color" content="#0e1113">')
+assert SK_HEAD.count("</head>") == 1
+(OUT / "index.html").write_text(SK_HEAD.replace("</head>", HOME + "</head>") + "\n" + shell + "\n</body></html>\n")
 for line in report: print(line)
 sizes = {p.name: p.stat().st_size for p in sorted((OUT / "apps").glob("*.*"))}
 print("shell.html", (OUT / "shell.html").stat().st_size, "· search.json", sizes["search.json"],
